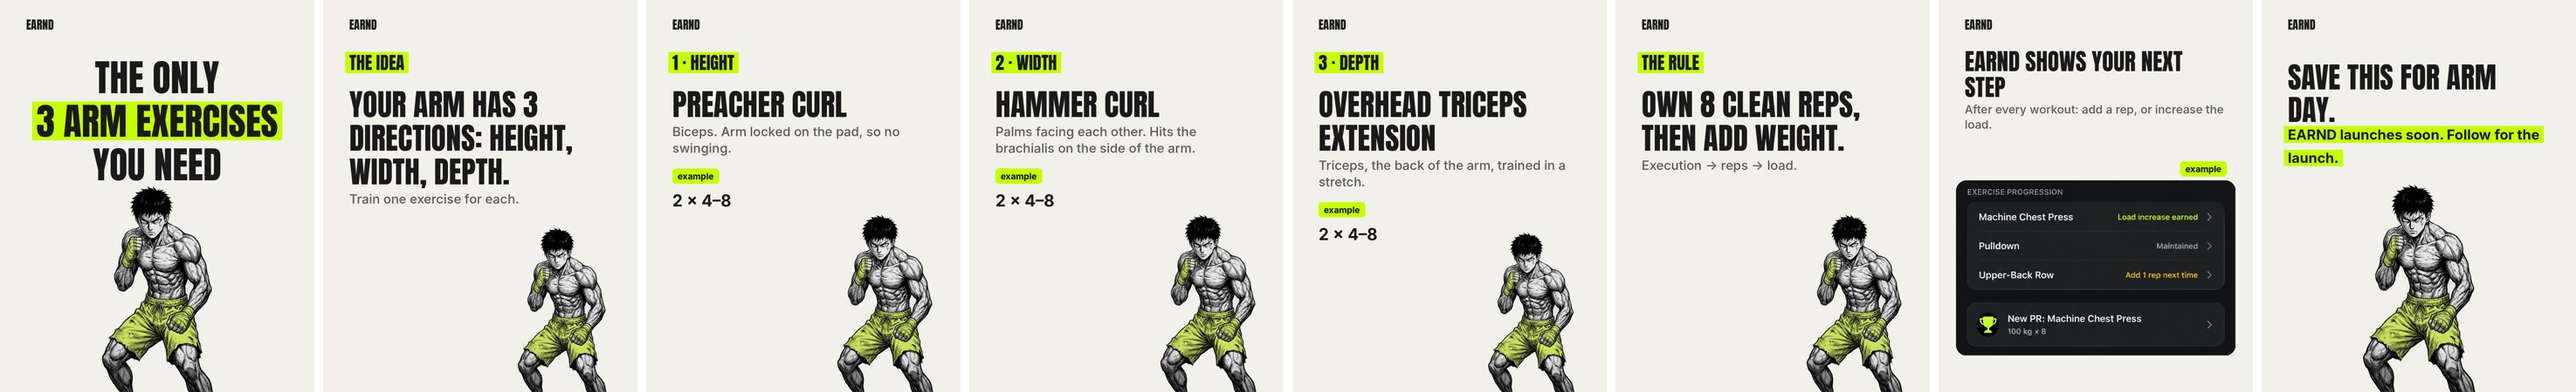
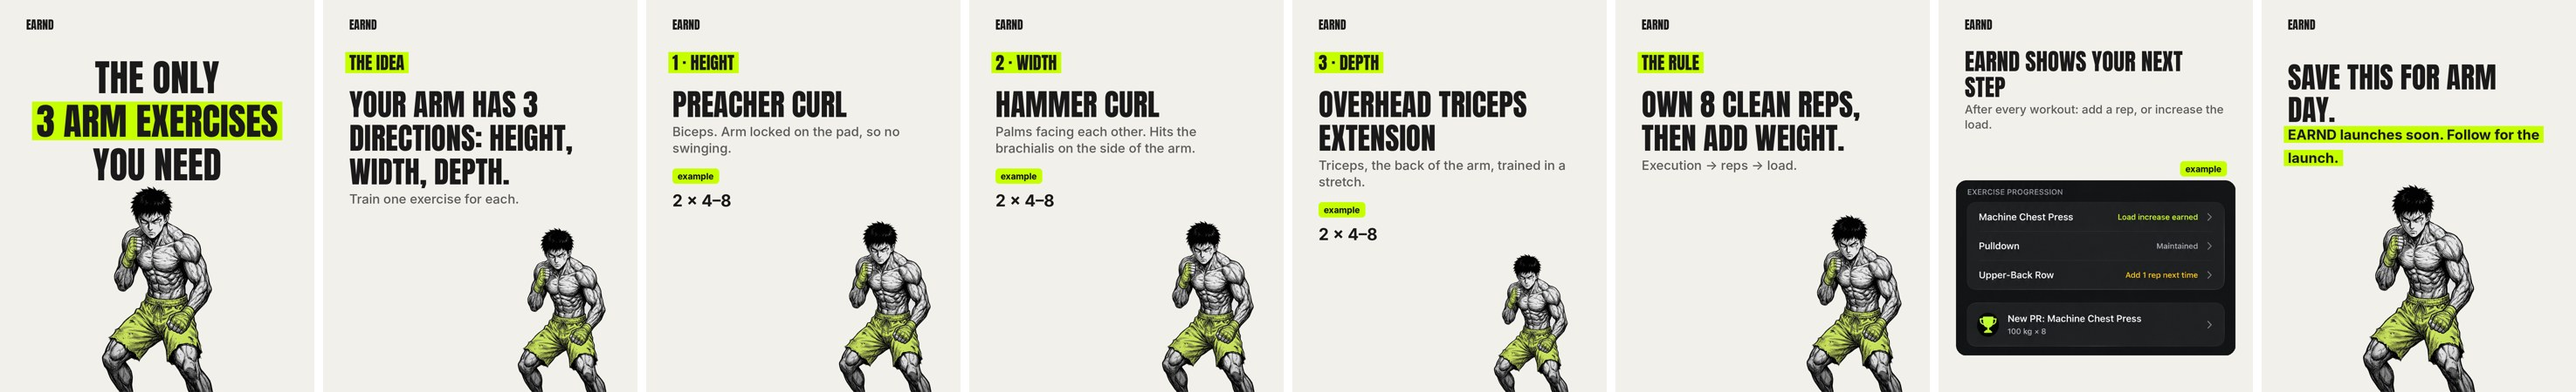
Add @ezyxbt edu slideshows with founder photos; photo panels in renderer
Claude-Session: https://claude.ai/code/session_01Ws8S991F2EukoMgPY9duxg

Changed region(s): [[0.4366, 0.56, 0.499, 1.0], [0.3119, 0.56, 0.3742, 1.0], [0.5614, 0.5911, 0.6237, 1.0]]

diff --git a/.claude/skills/slideshow-engine/scripts/edu_render.py b/.claude/skills/slideshow-engine/scripts/edu_render.py
@@ -76,13 +76,24 @@ def stars(img, x, y, val, th):
             img.paste(lay, (0, 0), Image.composite(lay, Image.new("RGBA", img.size), mask).split()[3])
             if th is THEMES["light"]: star(d, cx, y + r, r, None, (26, 26, 26))
 
-def brand(d, th):
-    d.text((M, 54), "EARND", font=font(ANTON, 40), fill=th["ink"])
+def brand(d, th, mark="EARND"):
+    if mark: d.text((M, 54), mark, font=font(ANTON, 40) if mark == "EARND" else font(INTER_B, 34), fill=th["ink"])
 
 def mascot(img, box, path):
     m = Image.open(path).convert("RGBA"); x0, y0, x1, y1 = box
     s = min((x1 - x0) / m.width, (y1 - y0) / m.height); m = m.resize((int(m.width * s), int(m.height * s)), Image.LANCZOS)
     img.paste(m, (x0 + (x1 - x0 - m.width) // 2, y1 - m.height), m)
+
+def photo(img, box, project, spec):
+    """Real photo panel: crop + resize only (founder-photo rule), rounded corners. spec: {"file", "focus": [fx, fy], "crop": [l,t,r,b]}."""
+    x0, y0, x1, y1 = [int(v) for v in box]; bw, bh = x1 - x0, y1 - y0
+    if bw < 200 or bh < 200: return
+    ph = Image.open(os.path.join(project, "01-app/founder-photos", spec["file"])).convert("RGB")
+    c = spec.get("crop", [0, 0, 1, 1]); ph = ph.crop((int(c[0] * ph.width), int(c[1] * ph.height), int(c[2] * ph.width), int(c[3] * ph.height)))
+    s = max(bw / ph.width, bh / ph.height); ph = ph.resize((int(ph.width * s) + 1, int(ph.height * s) + 1), Image.LANCZOS)
+    fx, fy = spec.get("focus", [0.5, 0.4]); cx = min(max(fx * ph.width - bw / 2, 0), ph.width - bw); cy = min(max(fy * ph.height - bh / 2, 0), ph.height - bh)
+    ph = ph.crop((int(cx), int(cy), int(cx) + bw, int(cy) + bh))
+    mask = Image.new("L", (bw, bh), 0); ImageDraw.Draw(mask).rounded_rectangle((0, 0, bw, bh), 36, fill=255); img.paste(ph, (x0, y0), mask)
 
 def example_tag(d, x, y, th):
     f = font(INTER_B, 30); t = "example"
@@ -97,12 +108,13 @@ def render(setdir, project):
     for f_ in os.listdir(out): os.remove(os.path.join(out, f_))
     pages = []
     for n, s in enumerate(spec["slides"], 1):
-        img = Image.new("RGB", (W, H), th["bg"]); d = ImageDraw.Draw(img); brand(d, th); t = s["type"]
+        img = Image.new("RGB", (W, H), th["bg"]); d = ImageDraw.Draw(img); brand(d, th, spec.get("mark", "EARND")); t = s["type"]
         if t == "cover":
             f = font(ANTON, 128); y = 170
             for text, acc in s["lines"]:
                 tw = d.textlength(text, font=f); accent_text(d, ((W - tw) / 2, y), text, f, th, acc); y += 150
-            if s.get("mascot"): mascot(img, (M, y + 10, W - M, H), mas)
+            if s.get("photo"): photo(img, (M, y + 20, W - M, H - 60), project, s["photo"])
+            elif s.get("mascot"): mascot(img, (M, y + 10, W - M, H), mas)
         elif t in ("rank", "grid"):
             f = font(ANTON, 96); x = M
             if s.get("rank"):
@@ -158,8 +170,9 @@ def render(setdir, project):
             if s.get("body"): y = para(d, s["body"], font(INTER_M, 44), M, y, W - 2 * M, th["soft"]) + 40
             if s.get("example"):
                 y = example_tag(d, M, y, th) + 24
-                para(d, s["example"], font(INTER_B, 56), M, y, W - 2 * M, th["ink"], 1.35)
-            if s.get("mascot"): mascot(img, (W // 2 + 40, max(y + 20, H - 620), W - 20, H), mas)
+                y = para(d, s["example"], font(INTER_B, 56), M, y, W - 2 * M, th["ink"], 1.35)
+            if s.get("photo"): photo(img, (M, y + 20, W - M, H - 60), project, s["photo"])
+            elif s.get("mascot"): mascot(img, (W // 2 + 40, max(y + 20, H - 620), W - 20, H), mas)
         elif t == "app":
             y = para(d, s["title"], font(ANTON, 80), M, 150, W - 2 * M, th["ink"], 1.12) + 24
             if s.get("body"): y = para(d, s["body"], font(INTER_M, 40), M, y, W - 2 * M, th["soft"]) + 90
@@ -176,7 +189,8 @@ def render(setdir, project):
                 fb = font(INTER_B, 48)
                 for ln in wrap(d, s["body"], fb, W - 2 * M):
                     accent_text(d, (M, y), ln, fb, th, True); y += 80
-            if s.get("mascot"): mascot(img, (M, y + 30, W - M, H), mas)
+            if s.get("photo"): photo(img, (M, y + 30, W - M, H - 60), project, s["photo"])
+            elif s.get("mascot"): mascot(img, (M, y + 30, W - M, H), mas)
         p = os.path.join(out, f"slide-{n:02d}.jpg"); img.save(p, quality=93); pages.append(img)
     th_w = 360; sheet = Image.new("RGB", (th_w * len(pages) + 10 * (len(pages) - 1), int(th_w * H / W)), (255, 255, 255))
     for i, pg in enumerate(pages): sheet.paste(pg.resize((th_w, int(th_w * H / W))), (i * (th_w + 10), 0))

diff --git a/01-app/founder-photo-catalog.md b/01-app/founder-photo-catalog.md
@@ -27,3 +27,24 @@ Pick the strongest, most relevant photo for each slide. Crop and resize only: fa
 - Logging a set in EARND at the gym, screen readable.
 - Training mid-set, not posing.
 - More shots with no one else in frame.
+
+## Batch 2 (supplied 2026-10-29 as `ezyxbt-gym-photos-small.zip`, 22 photos, filenames b*-**.jpg)
+Stored in `01-app/founder-photos/` (git-ignored). Crop and resize only.
+
+| File | Shot | Other people | Best use | Used in |
+|---|---|---|---|---|
+| b7-15.jpg | White tank, side-on portrait, dark gym, looking at camera | None | **Strongest.** Covers | ezyxbt-edu-my-split slide 1 |
+| b7-16.jpg | White tank, side-on, arm flexed, dark gym | None | **Strong.** Covers/CTA | ezyxbt-edu-my-split slide 8 |
+| b6-13.jpg | Navy tee mirror selfie, flexing, dark-green gym | None | Clean mid shot | ezyxbt-edu-my-split slide 2 |
+| b6-11.jpg | Navy tee mirror selfie, machines | None | Clean | ezyxbt-edu-how-i-progress slide 2 |
+| b5-02.jpg | Olive tee mirror, plate tree, dark gym | None | Crop out the "please do not drop weights" sign at the top | ezyxbt-edu-how-i-progress slide 1 |
+| b5-16.jpg | Navy tee in green power rack | None | Green, energetic | ezyxbt-edu-how-i-progress slide 3 |
+| b5-01.jpg | Navy tee mirror, long green gym | None | Clean | ezyxbt-edu-how-i-progress slide 4 |
+| b1-11.jpg | Navy tee mirror, stairwell wall | None | Calm | ezyxbt-edu-how-i-progress slide 5 |
+| b4-10.jpg | Navy tee mirror, close, machine | None | Crop to keep the head in frame | ezyxbt-edu-how-i-progress slide 6 |
+| b1-09, b3-10, b4-04, b4-12, b4-15, b5-03, b5-14, b5-15 | Stairwell-wall mirror selfies (tee/hoodie) | None | Similar set; small in frame | |
+| b6-03.jpg | Green racks, standing | None | Spare | |
+| b6-08.jpg | Hoodie, colourful gym, full body | None | Spare | |
+| b7-12.jpg | White tank mirror, dark gym | Check right edge | Spare | |
+| b8-03.jpg | Seated with barbell in front | **Yes**, behind | Avoid or crop hard | |
+| b8-10.jpg | Black tank mirror selfie | **Yes**, behind | Avoid or crop hard | |

diff --git a/04-sets/2026-10-29-ezyxbt-edu-my-split/slides.md b/04-sets/2026-10-29-ezyxbt-edu-my-split/slides.md
@@ -1,0 +1,21 @@
+# 2026-10-29-ezyxbt-edu-my-split
+
+> Draft, awaiting gate 3. Format `edu-template-slideshow`, founder version: **dark** look, 1080×1350, the founder's real photos (crop and resize only).
+
+- **Account:** @ezyxbt (founder)
+- **Angle:** founder's own 4-day upper/lower, first person, real photos → final slide: i'm building EARND
+- **Caption:** the exact split i run. save it
+- **Hashtags:** #upperlower #workoutsplit #gymroutine #gymtips
+- **AI label:** not needed (real photos, no generated images).
+- **First-person claims the founder must confirm:** that he trains this split / uses this progression rule.
+
+| # | Type | Text | Photo |
+|---|---|---|---|
+| 1 | cover | THE 4-DAY SPLIT / I ACTUALLY / TRAIN | b7-15.jpg |
+| 2 | steps | WHY THIS ONE · 4 DAYS A WEEK. SHORT SESSIONS. · upper, lower, rest, upper, lower. easy to repeat every week. · 2 × 4–8 per exercise | b6-13.jpg |
+| 3 | grid | MY WEEK · four sessions, three rest days. |  |
+| 4 | list | DAY 1 · UPPER A · 2 × 4–8 each · Machine Chest Press, Pulldown, Chest-Supported Row, Lateral Raise, Preacher Curl, Poliquin Pushdown |  |
+| 5 | list | DAY 2 · LOWER A · 2 × 4–8 each · Calf Press, Seated Leg Curl, Leg Extension, Adductor Machine, Hip Thrust |  |
+| 6 | list | DAY 4 · UPPER B · 2 × 4–8 each · Machine Shoulder Press, Pullover, Shrug, Pec Deck, Bayesian Curl, Triceps Extension |  |
+| 7 | list | DAY 5 · LOWER B · 2 × 4–8 each · Calf Press, Unilateral Leg Curl, Unilateral Leg Extension, RDL, Pendulum / Hack Squat |  |
+| 8 | cta | SAVE IT FOR YOUR NEXT SESSION. · i'm building EARND. follow @earndapp for the launch. | b7-16.jpg |

diff --git a/04-sets/2026-10-29-ezyxbt-edu-how-i-progress/slides.md b/04-sets/2026-10-29-ezyxbt-edu-how-i-progress/slides.md
@@ -1,0 +1,19 @@
+# 2026-10-29-ezyxbt-edu-how-i-progress
+
+> Draft, awaiting gate 3. Format `edu-template-slideshow`, founder version: **light** look, 1080×1350, the founder's real photos (crop and resize only).
+
+- **Account:** @ezyxbt (founder)
+- **Angle:** founder's own progression rule, first person, real photos → final slide: i'm building EARND
+- **Caption:** the only rule i follow for progress
+- **Hashtags:** #progressiveoverload #gymtips #strengthtraining #musclebuildingtips
+- **AI label:** not needed (real photos, no generated images).
+- **First-person claims the founder must confirm:** that he trains this split / uses this progression rule.
+
+| # | Type | Text | Photo |
+|---|---|---|---|
+| 1 | cover | HOW I / PROGRESS / EVERY LIFT | b5-02.jpg |
+| 2 | steps | STEP 1 · I PICK A WEIGHT I CAN DO FOR 4 CLEAN REPS. | b6-11.jpg |
+| 3 | steps | STEP 2 · SAME WEIGHT. I ADD REPS. · 100 kg × 5 → 6 → 7 | b5-16.jpg |
+| 4 | steps | STEP 3 · 8 CLEAN REPS? THEN I ADD WEIGHT. · 100 kg × 8 → 105 kg × 4–5 | b5-01.jpg |
+| 5 | steps | THE RULE · IF MY FORM BREAKS, I HAVEN'T EARNED THE INCREASE. | b1-11.jpg |
+| 6 | cta | THAT'S THE WHOLE SYSTEM. · i'm building EARND. follow @earndapp for the launch. | b4-10.jpg |
